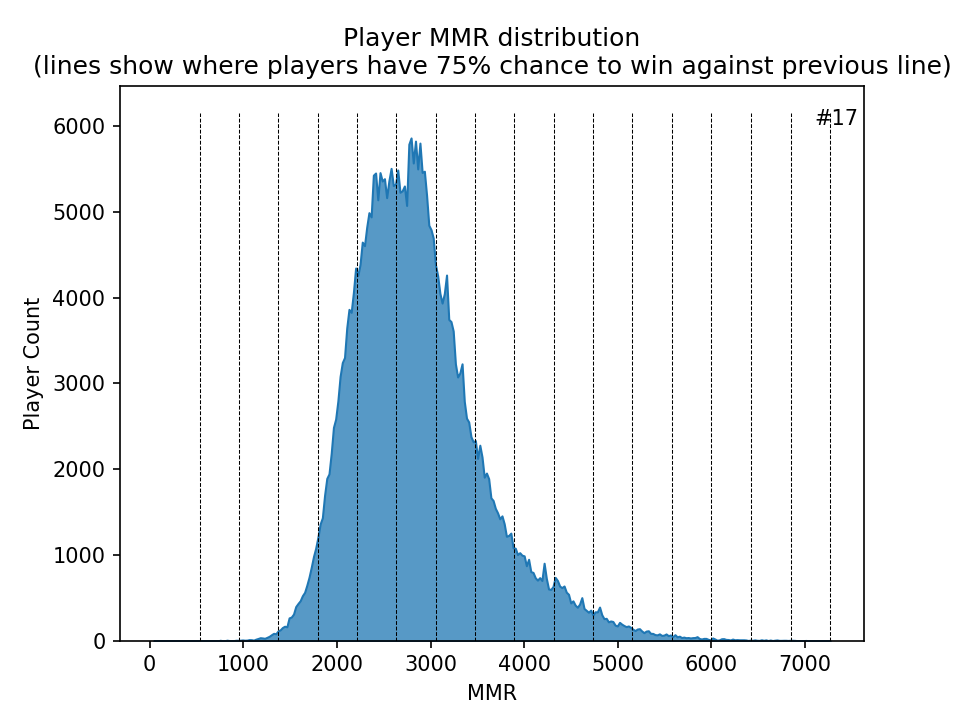
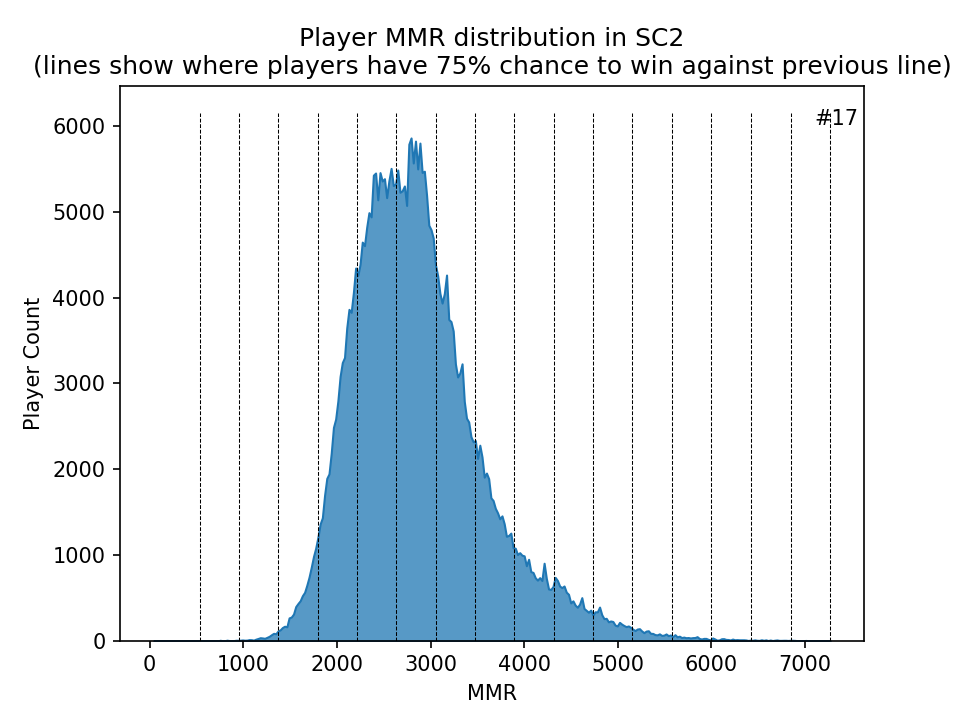
sc2

Changed region(s): [[0.3125, 0.0306, 0.7188, 0.0611]]

diff --git a/mmr.py b/mmr.py
@@ -78,7 +78,7 @@ def plot_scaling(data):
     plt.xlabel("MMR")
     plt.ylabel("Player Count")
     plt.title(
-        "Player MMR distribution\n(lines show where players have 75% chance to win against previous line)"
+        "Player MMR distribution in SC2\n(lines show where players have 75% chance to win against previous line)"
     )
     plt.text(plt.xlim()[1] * 0.93, plt.ylim()[1] * 0.93, f"#{lines}")
     plt.savefig("mmr_scaling.png")
